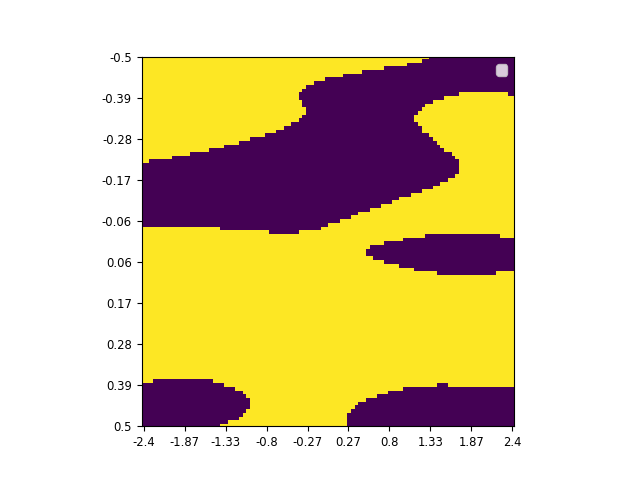
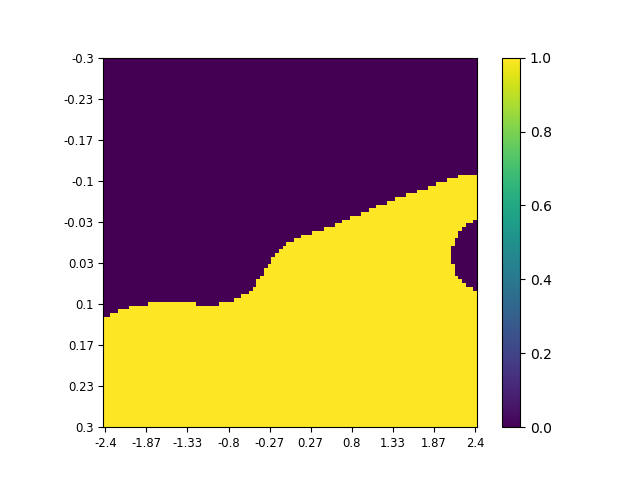
Changes code

diff --git a/Exercises/Ex4/main_dqn.py b/Exercises/Ex4/main_dqn.py
@@ -108,24 +108,4 @@ print('Complete')
 plt.ioff()
 plt.show()
 
-# Task 3 - plot the policy
-size = 100
-x_range = np.linspace(-2.4,2.4,size)
-thetha_range = np.linspace(-0.5,0.5,size)
-xx,yy = np.meshgrid(x_range,thetha_range,indexing='ij')
-states = np.vstack((xx.flatten(),
-                     np.zeros(xx.size),
-                     yy.flatten(),
-                     np.zeros(yy.size)
-                     )
-            ).T
-features = agent.featurize(states)
-q_s = np.array([q_a.predict(features) for q_a in agent.q_functions])
-q_s = np.argmax(q_s,axis=0)
-q_s.shape = (xx.shape)
-plt.imshow(q_s.T)
-plt.xticks(range(0,size,11),np.round(x_range[::11],2),fontsize='small')
-plt.yticks(range(0,size,11), np.round(thetha_range[::11],2),fontsize='small')
-plt.legend("1","0")
-plt.show()
 # %%

diff --git a/Exercises/Ex4/main.py b/Exercises/Ex4/main.py
@@ -114,7 +114,7 @@ plt.show()
 # Task 3 - plot the policy
 size = 100
 x_range = np.linspace(-2.4,2.4,size)
-thetha_range = np.linspace(-0.5,0.5,size)
+thetha_range = np.linspace(-0.3,0.3,size)
 xx,yy = np.meshgrid(x_range,thetha_range,indexing='ij')
 states = np.vstack((xx.flatten(),
                      np.zeros(xx.size),
@@ -129,6 +129,6 @@ q_s.shape = (xx.shape)
 plt.imshow(q_s.T)
 plt.xticks(range(0,size,11),np.round(x_range[::11],2),fontsize='small')
 plt.yticks(range(0,size,11), np.round(thetha_range[::11],2),fontsize='small')
-plt.legend("1","0")
+plt.colorbar()
 plt.show()
 # %%
